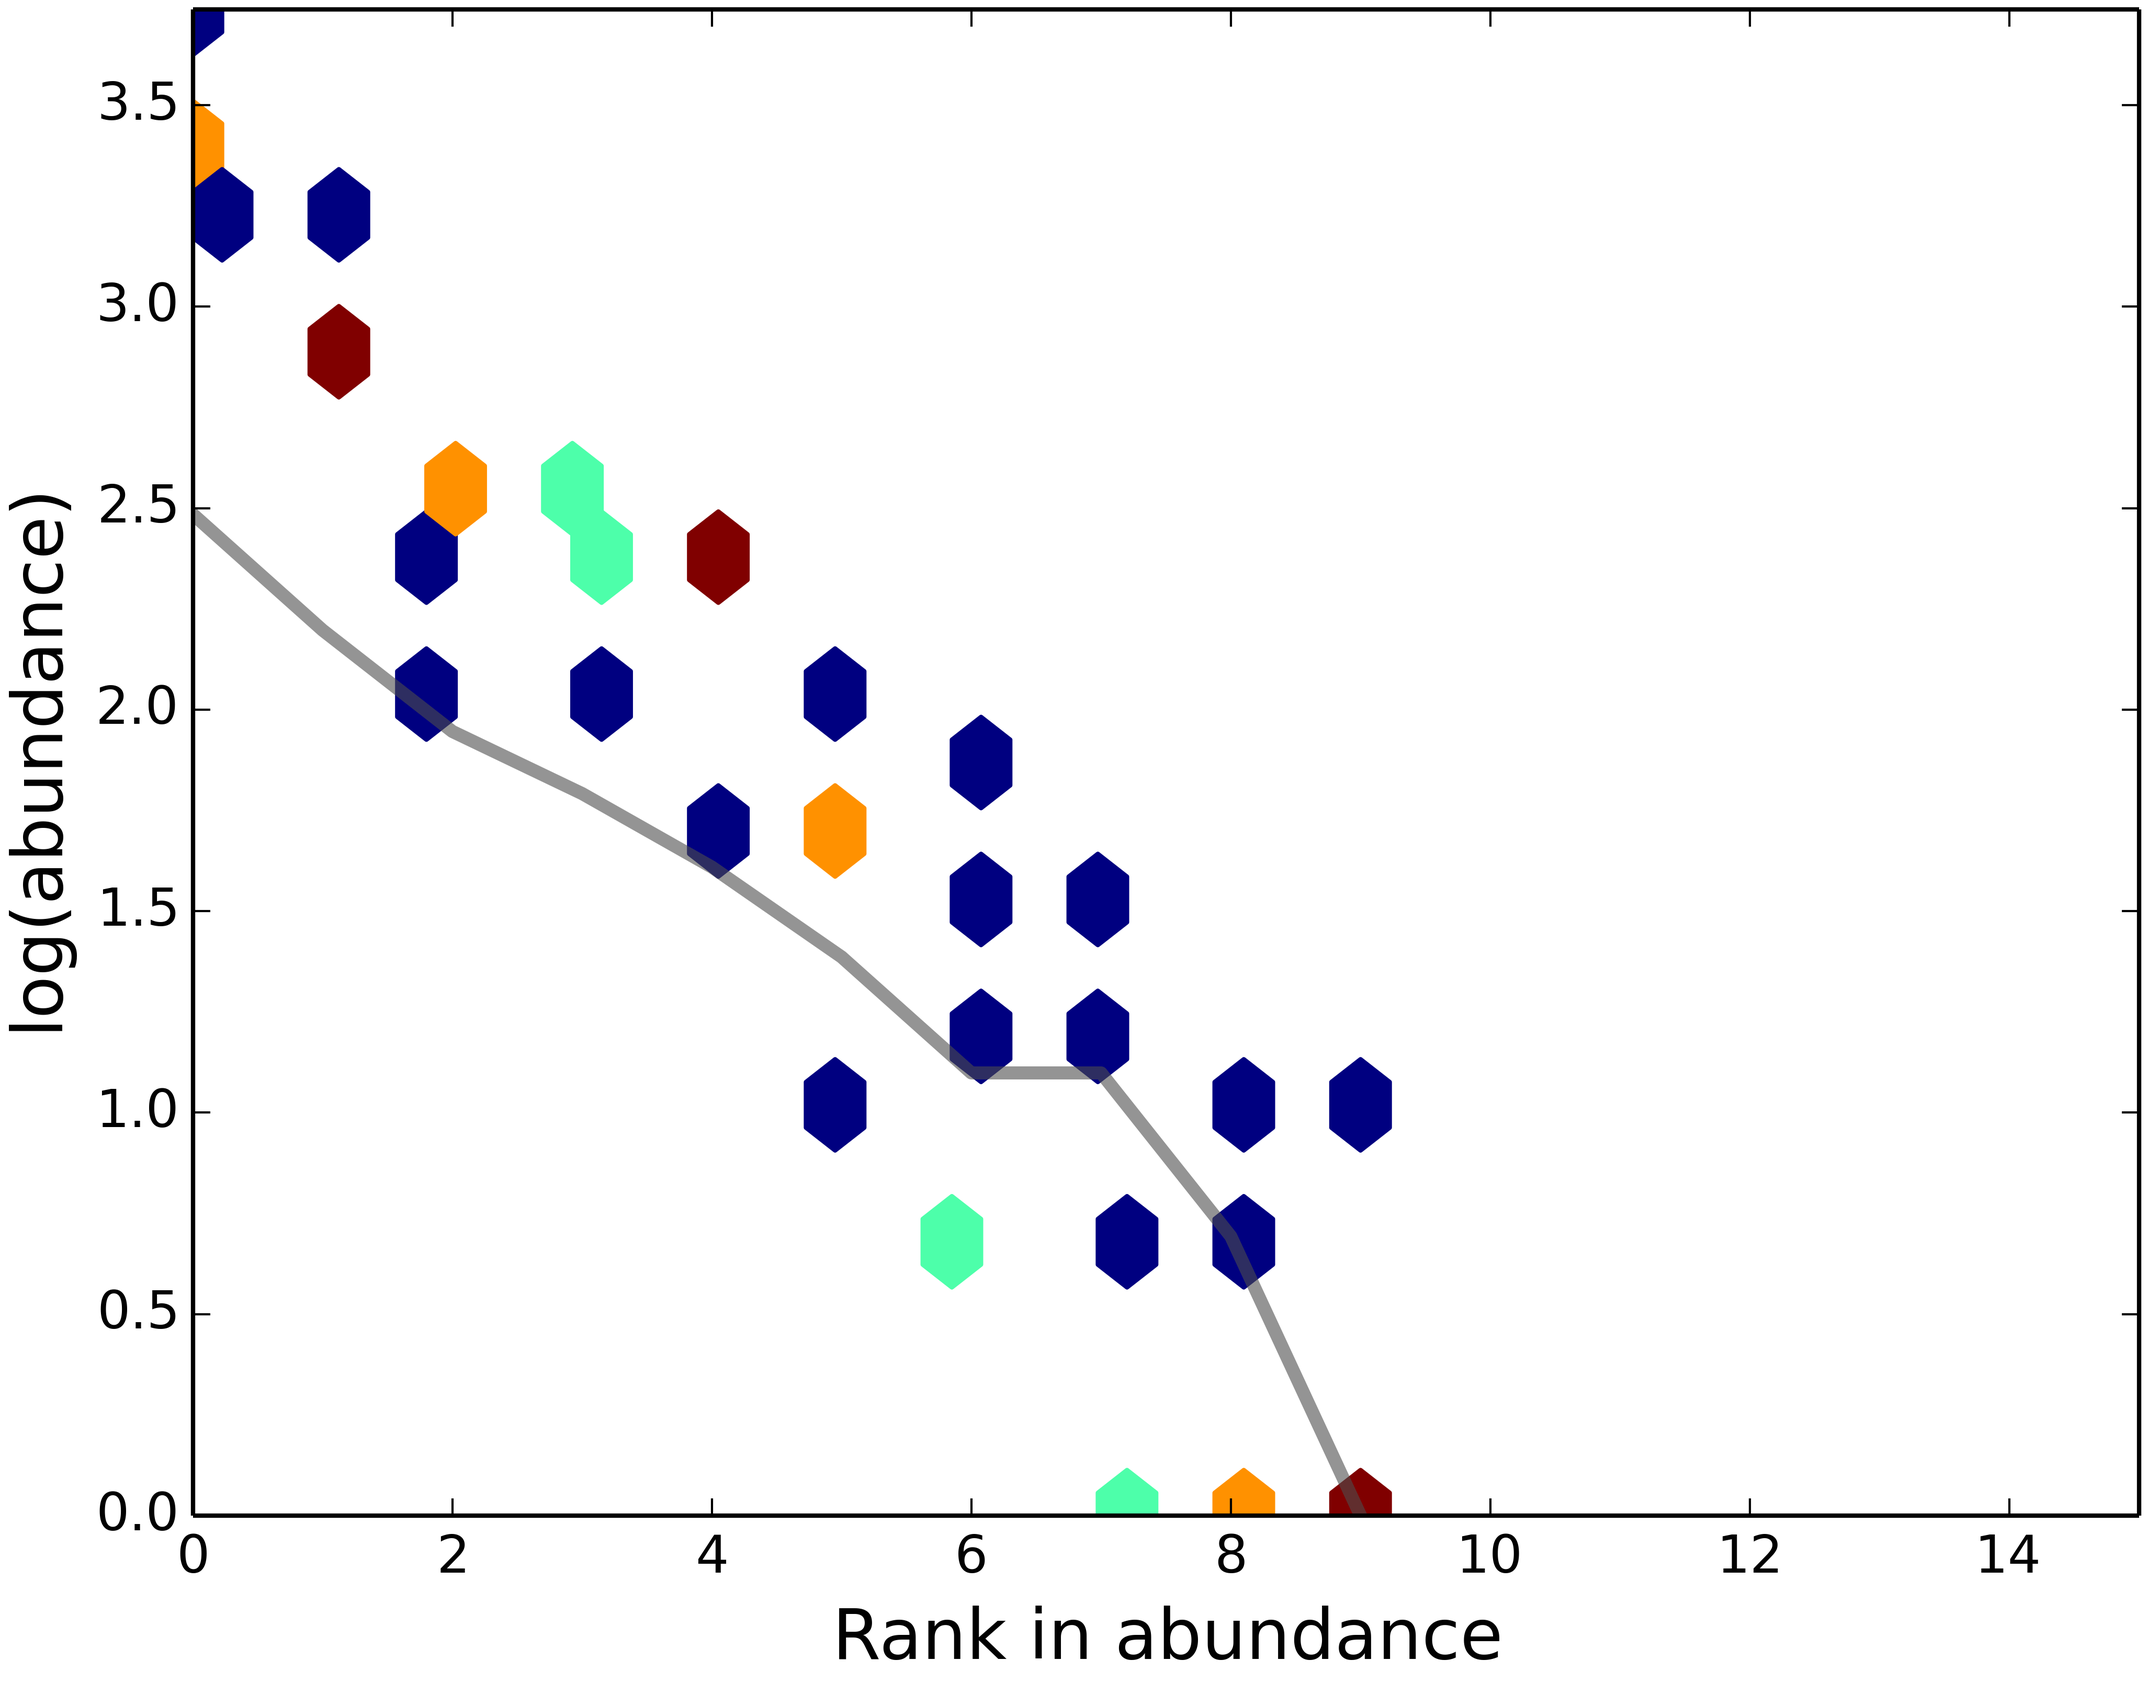
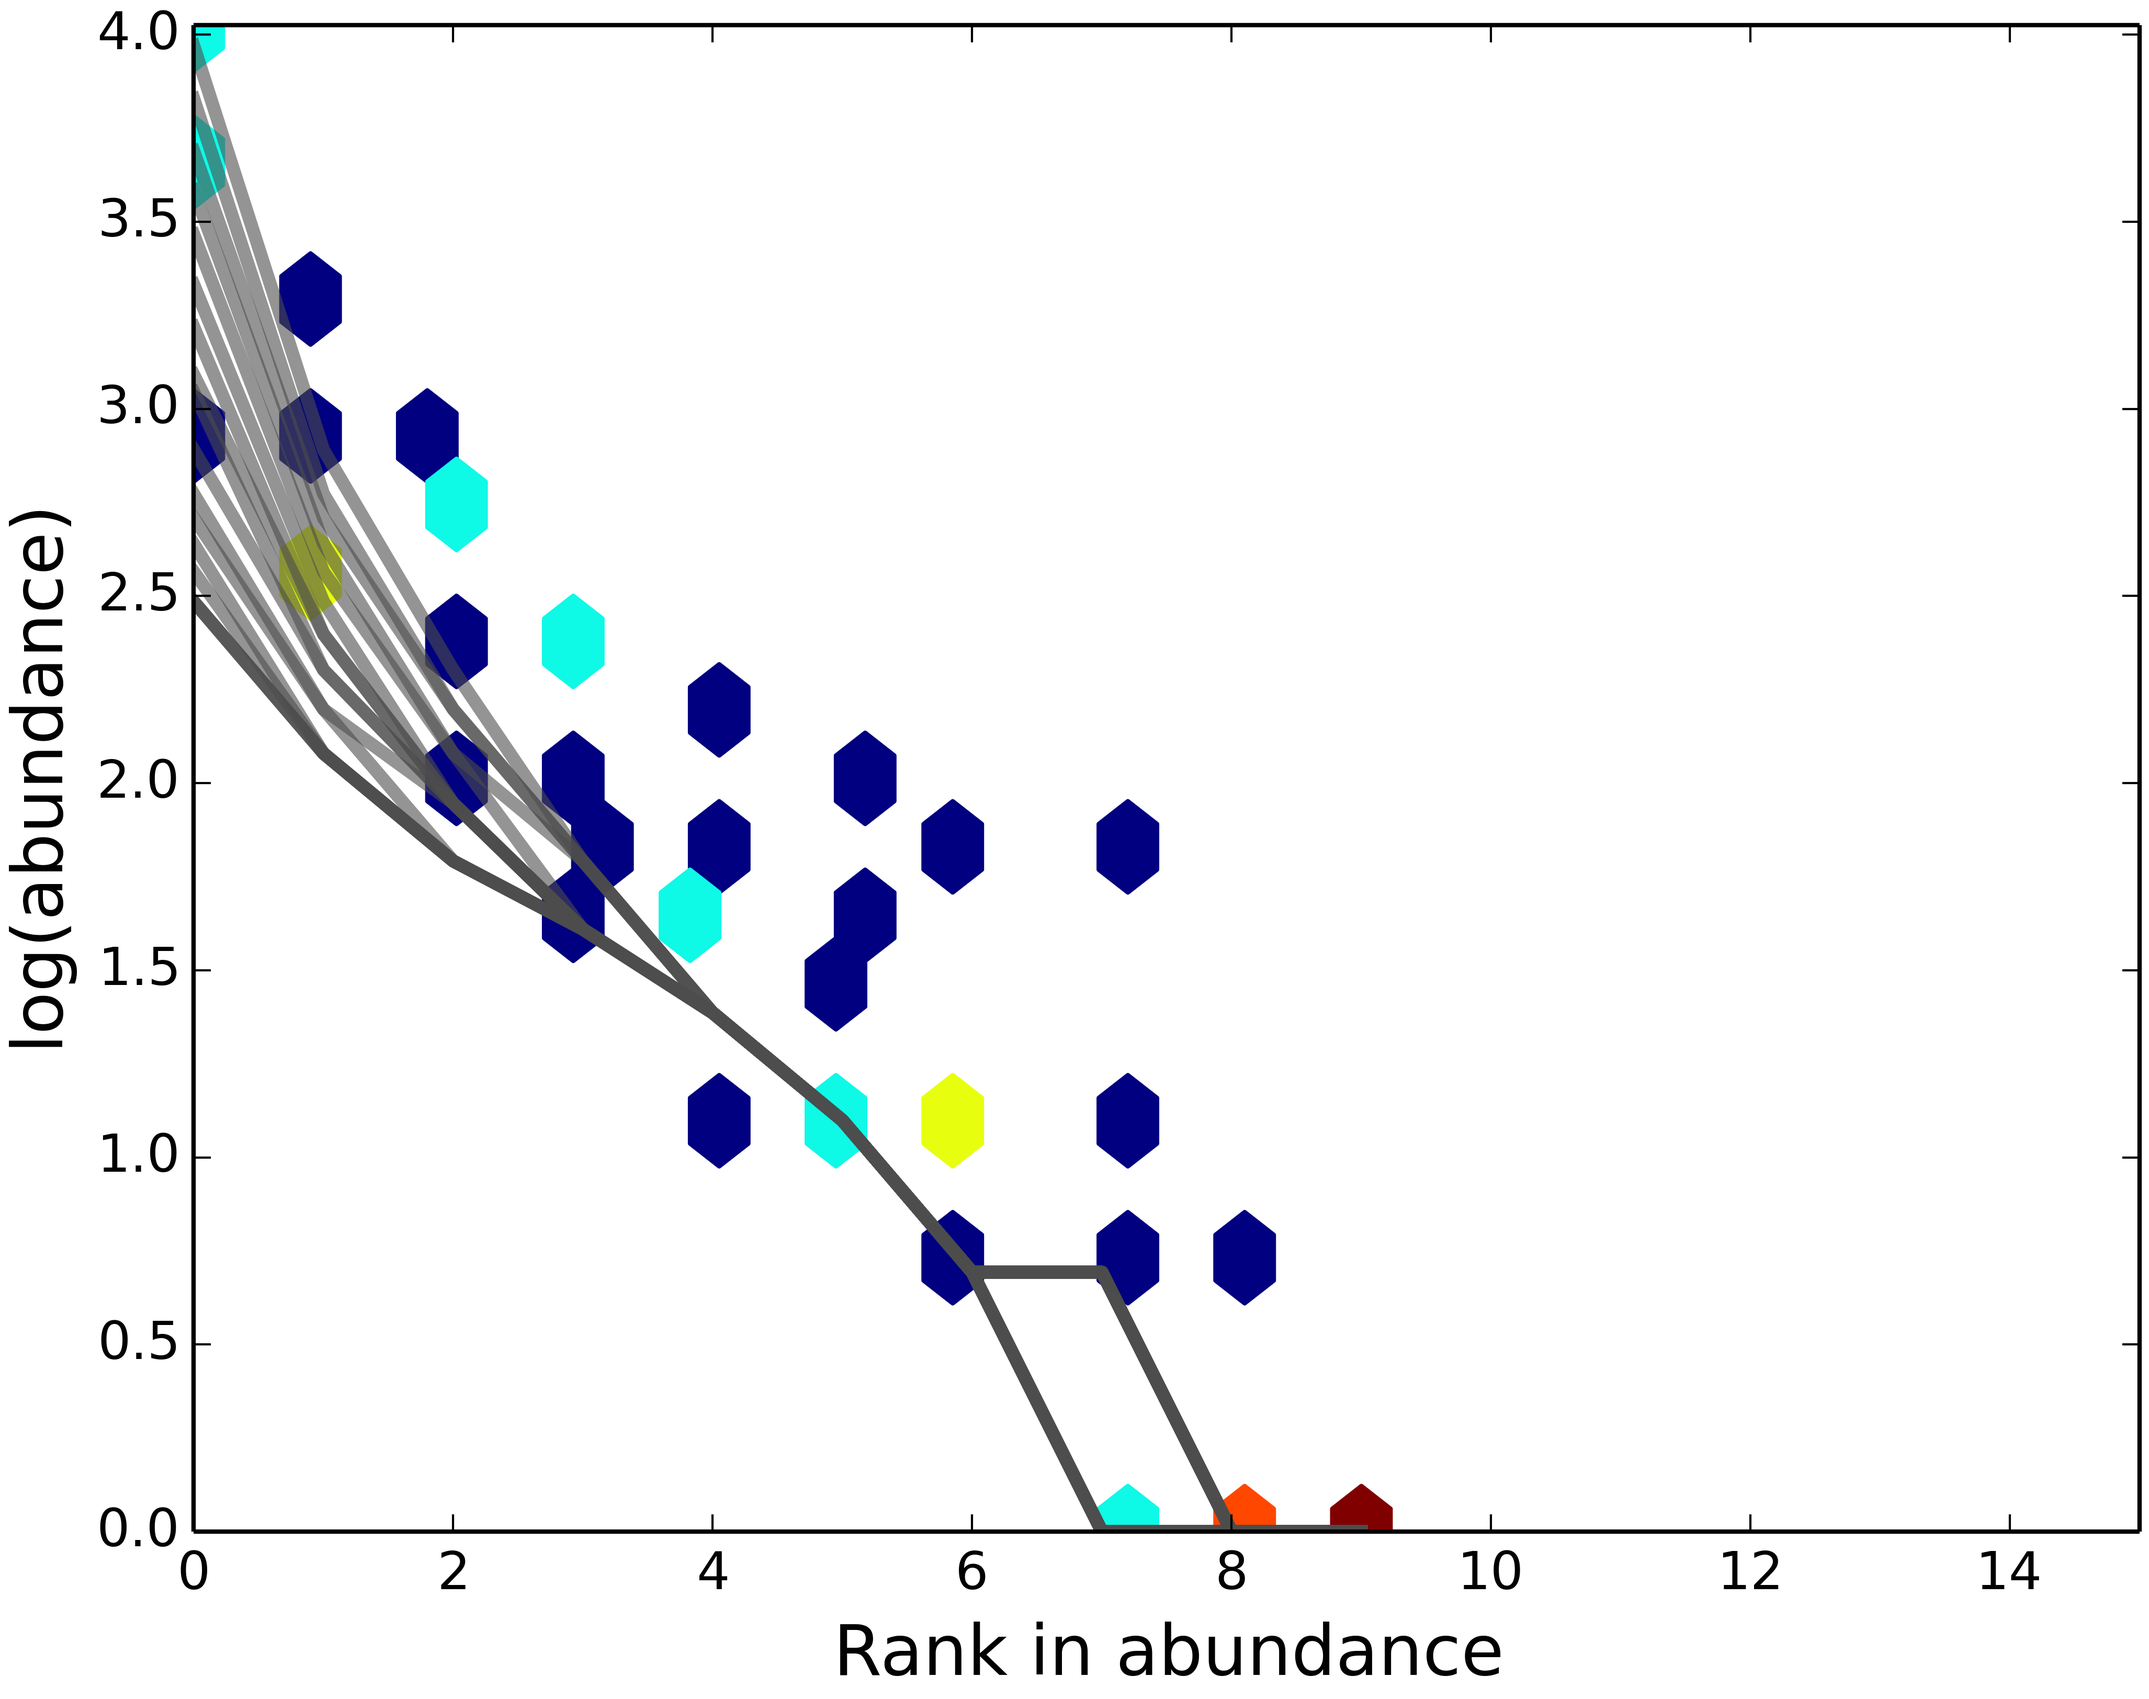
Plotted MLEs as they are generated, to see what going on

diff --git a/Models/LogNorm_MLEs_and_RACs.py b/Models/LogNorm_MLEs_and_RACs.py
@@ -52,9 +52,10 @@ def get_MLEs(RAC):
     #is causing something to happen.  Not sure what, but it seems like that the more times that we
     # require the variances to be equal the less log normal the MLE becomes.
     
-    while np.var(varlst, ddof = 1) > 0: # while the variance of varlst is greater than zero
+    while np.var(varlst, ddof = 1) > 0.001: # while the variance of varlst is greater than zero
         RAC = pln.get_rad_from_obs(RAC, 'pln') #get RAC from pln
         print RAC
+        print
         varlst.append(np.var(RAC, ddof =1)) # add the variance of the end RAC to the list
         varlst.pop(0) # remove the first number in the varlst 
         print np.var(varlst)
@@ -63,9 +64,9 @@ def get_MLEs(RAC):
     return RAC
     
     
-N = 1000
-S = 20
-sample_size = 5
+N = 10000
+S = 40
+sample_size = 25
 
 SLN = SimLogNorm(N, S, sample_size)
 
